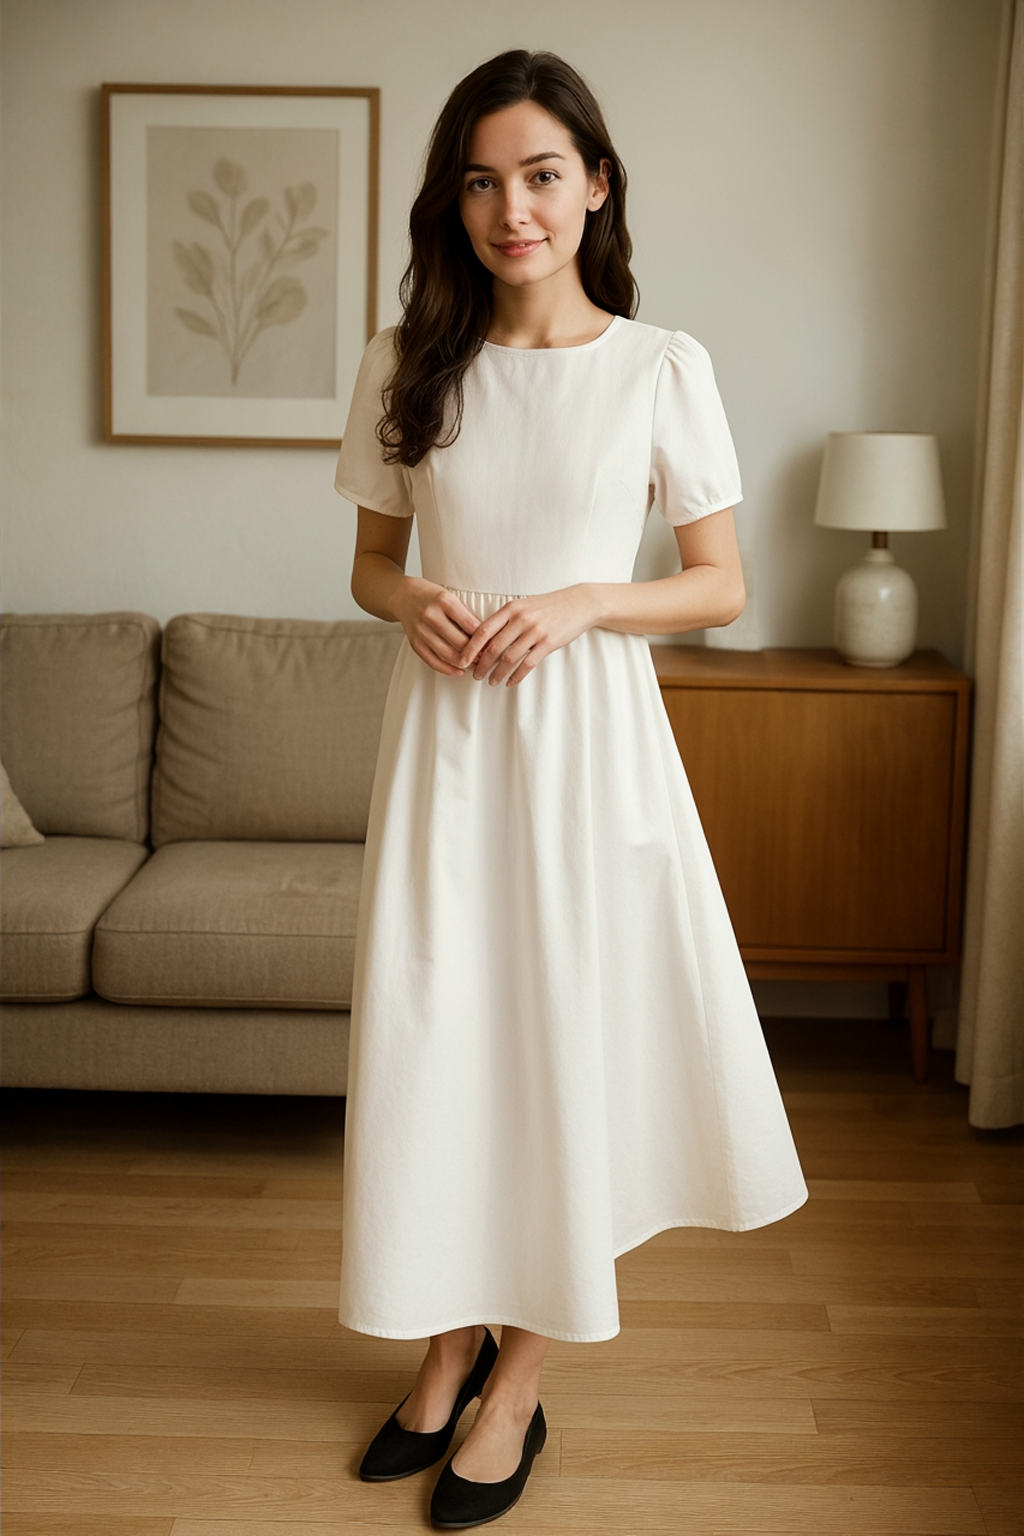
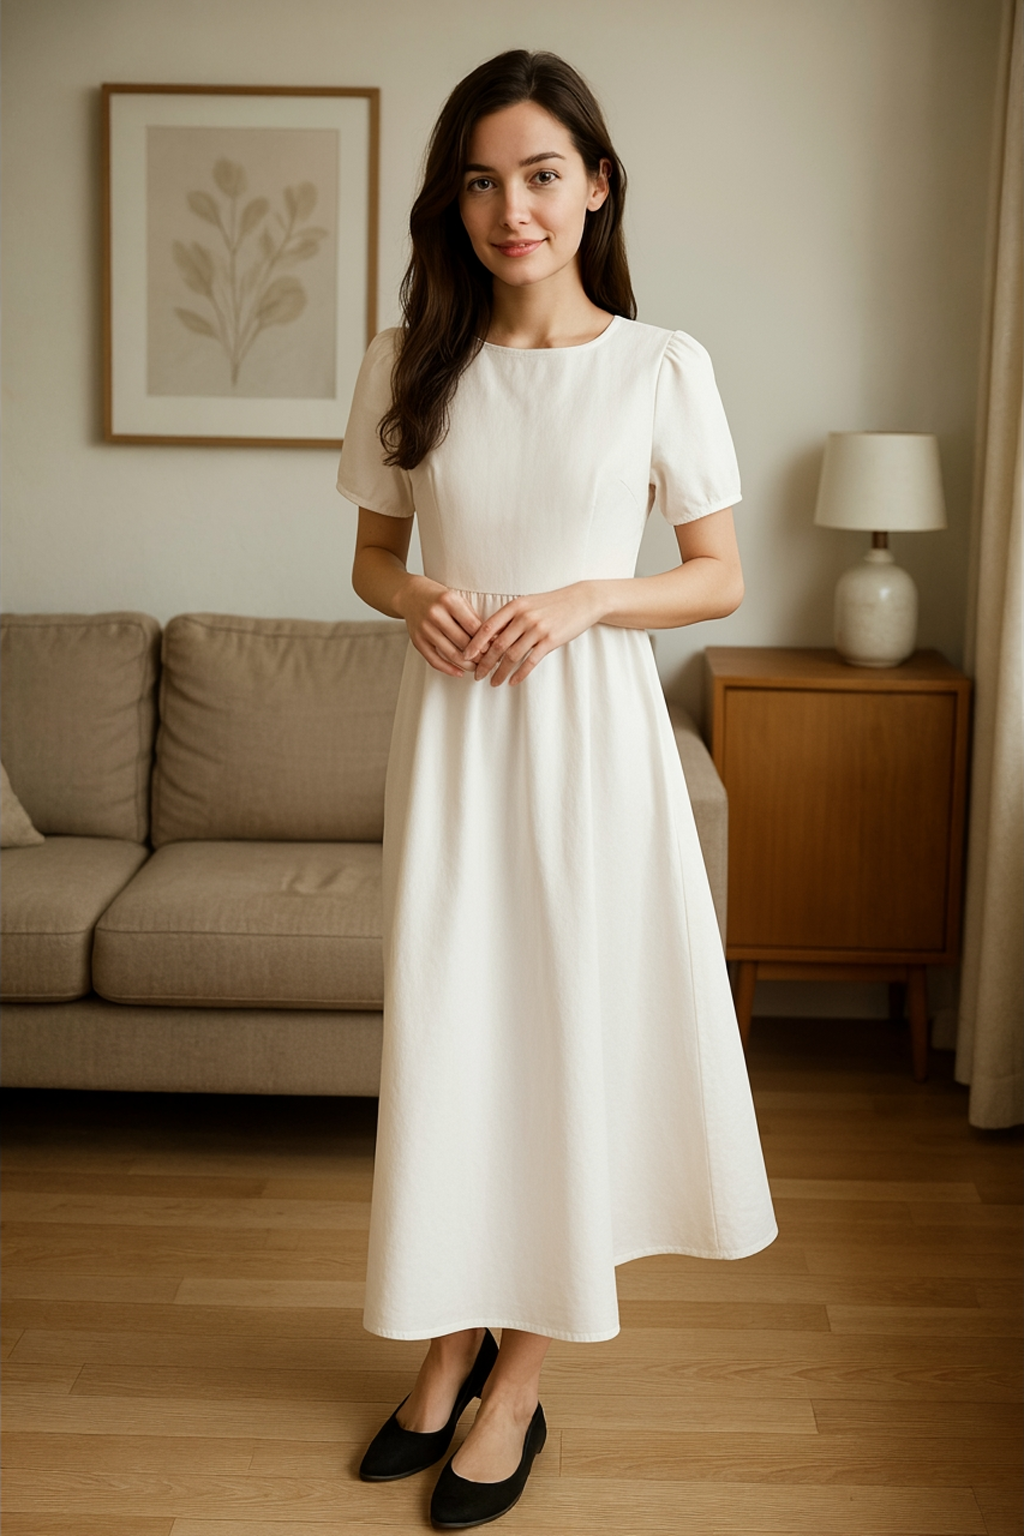
update

diff --git a/main.py b/main.py
@@ -11,7 +11,7 @@ from dotenv import load_dotenv, find_dotenv
 
 from google.oauth2 import service_account
 import google.auth
-from google.auth.transport.requests import Request
+from google.auth.transport.requests import Request, AuthorizedSession
 
 _ = load_dotenv(find_dotenv())
 
@@ -27,7 +27,10 @@ class VirtualTryOnAPI:
             location: リージョン（デフォルト: us-central1）
             service_account_path: サービスアカウントJSONファイルのパス（オプション）
         """
-        self.credentials, self.project_id = google.auth.default()
+        SCOPES = ["https://www.googleapis.com/auth/cloud-platform"]
+        self.credentials, self.project_id = google.auth.default(scopes=SCOPES)
+        print(f"使用中のプロジェクトID: {self.project_id}")
+
         self.location = location
         self.model_id = "virtual-try-on-preview-08-04"
         self.endpoint = f"https://{location}-aiplatform.googleapis.com/v1/projects/{self.project_id}/locations/{location}/publishers/google/models/{self.model_id}:predict"
@@ -46,7 +49,6 @@ class VirtualTryOnAPI:
         person_generation: str = "allow_all",
         safety_setting: str = "block_only_high",
         seed: Optional[int] = None,
-        storage_uri: Optional[str] = None,
         output_mime_type: str = "image/png",
         compression_quality: Optional[int] = None
     ) -> List[str]:
@@ -115,19 +117,11 @@ class VirtualTryOnAPI:
         if compression_quality and output_mime_type == "image/jpeg":
             request_body["parameters"]["outputOptions"]["compressionQuality"] = compression_quality
         
-        # 認証トークンの更新
-        if not self.credentials.valid:
-            if hasattr(self.credentials, 'refresh'):
-                self.credentials.refresh(Request())
-
         # APIリクエスト
         print(f"Virtual Try-On実行中... (画像数: {sample_count}, ステップ数: {base_steps})")
-        response = requests.post(
+        authed = AuthorizedSession(self.credentials)
+        response = authed.post(
             self.endpoint,
-            headers={
-                "Authorization": f"Bearer {self.credentials.token}",
-                "Content-Type": "application/json"
-            },
             json=request_body
         )
         
@@ -136,7 +130,7 @@ class VirtualTryOnAPI:
         
         # 画像の保存
         result = response.json()
-        Path(output_dir).mkdir(parents=True, exist_ok=True)
+        os.makedirs(output_dir, exist_ok=True)
         saved_paths = []
         
         for i, prediction in enumerate(result.get("predictions", [])):
@@ -164,14 +158,14 @@ if __name__ == "__main__":
     
     results = api.try_on(
         person_image_path="./images/person.png",
-        product_image_path="./images/dress2.png",
+        product_image_path="./images/dress.png",
         output_dir="./results",
         # APIパラメータ
-        sample_count=1,              # 4枚生成
-        base_steps=32,               # 高品質（ステップ数増加）
-        add_watermark=False,         # 透かしなし
-        seed=42,                     # 再現可能な結果
-        output_mime_type="image/png", # PNG形式
+        sample_count=1,              
+        base_steps=32,               
+        add_watermark=False,         
+        seed=42,                    
+        output_mime_type="image/png", 
     )
 
     print("生成完了しました")
